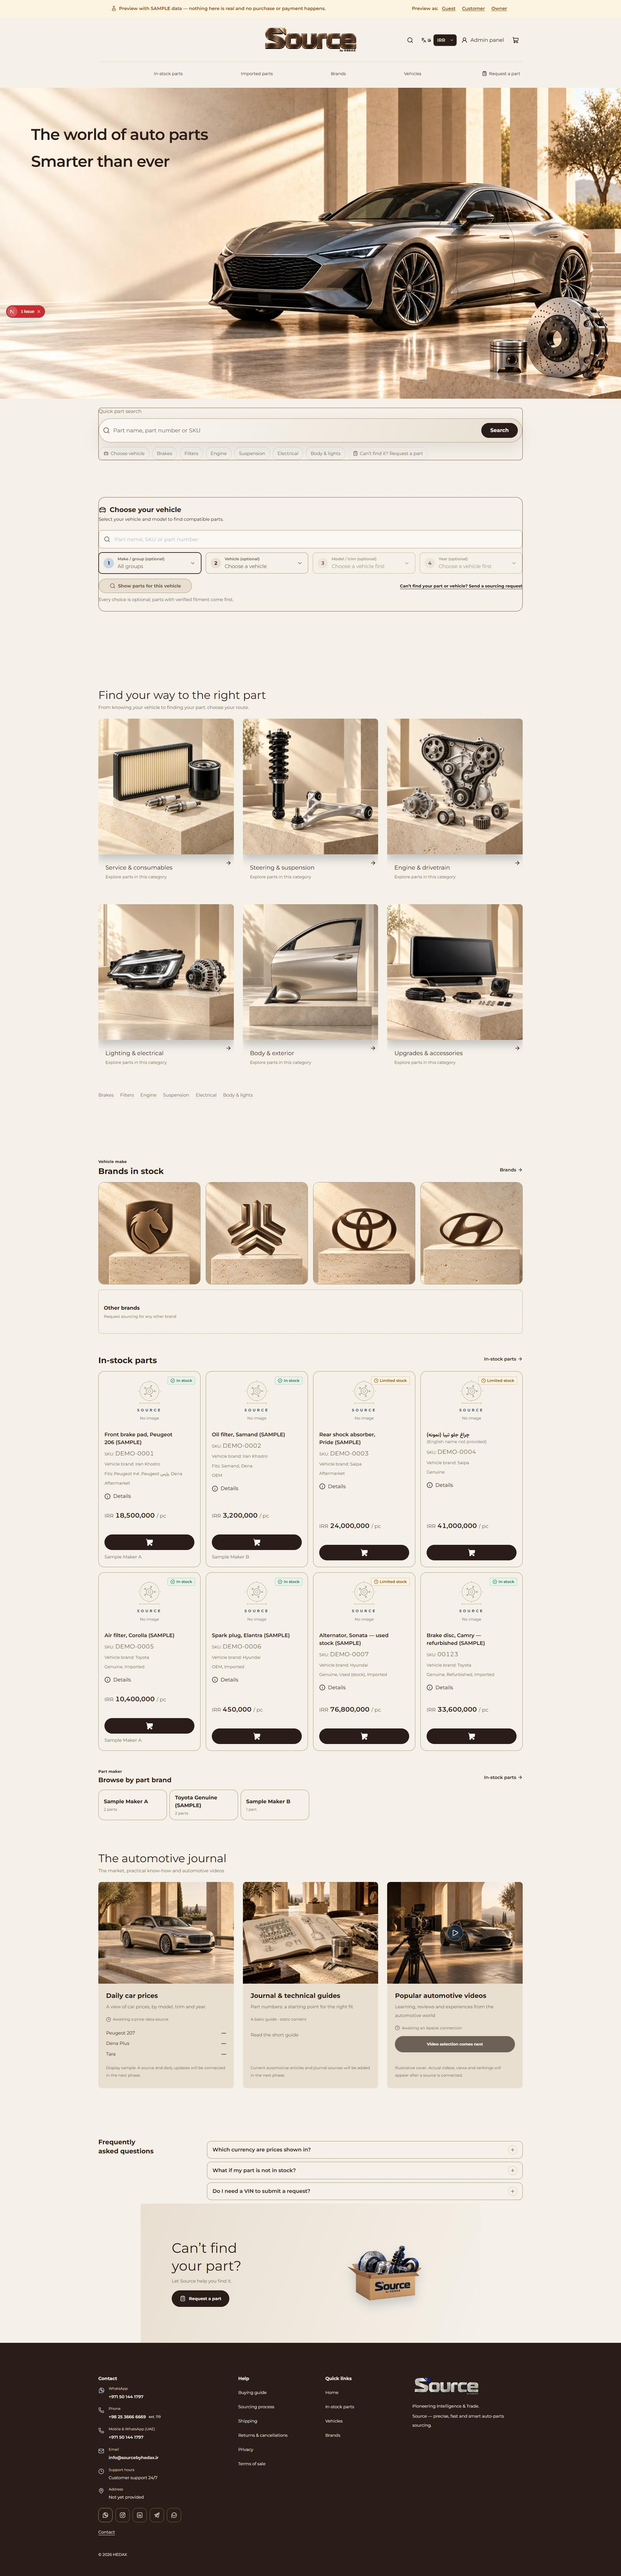
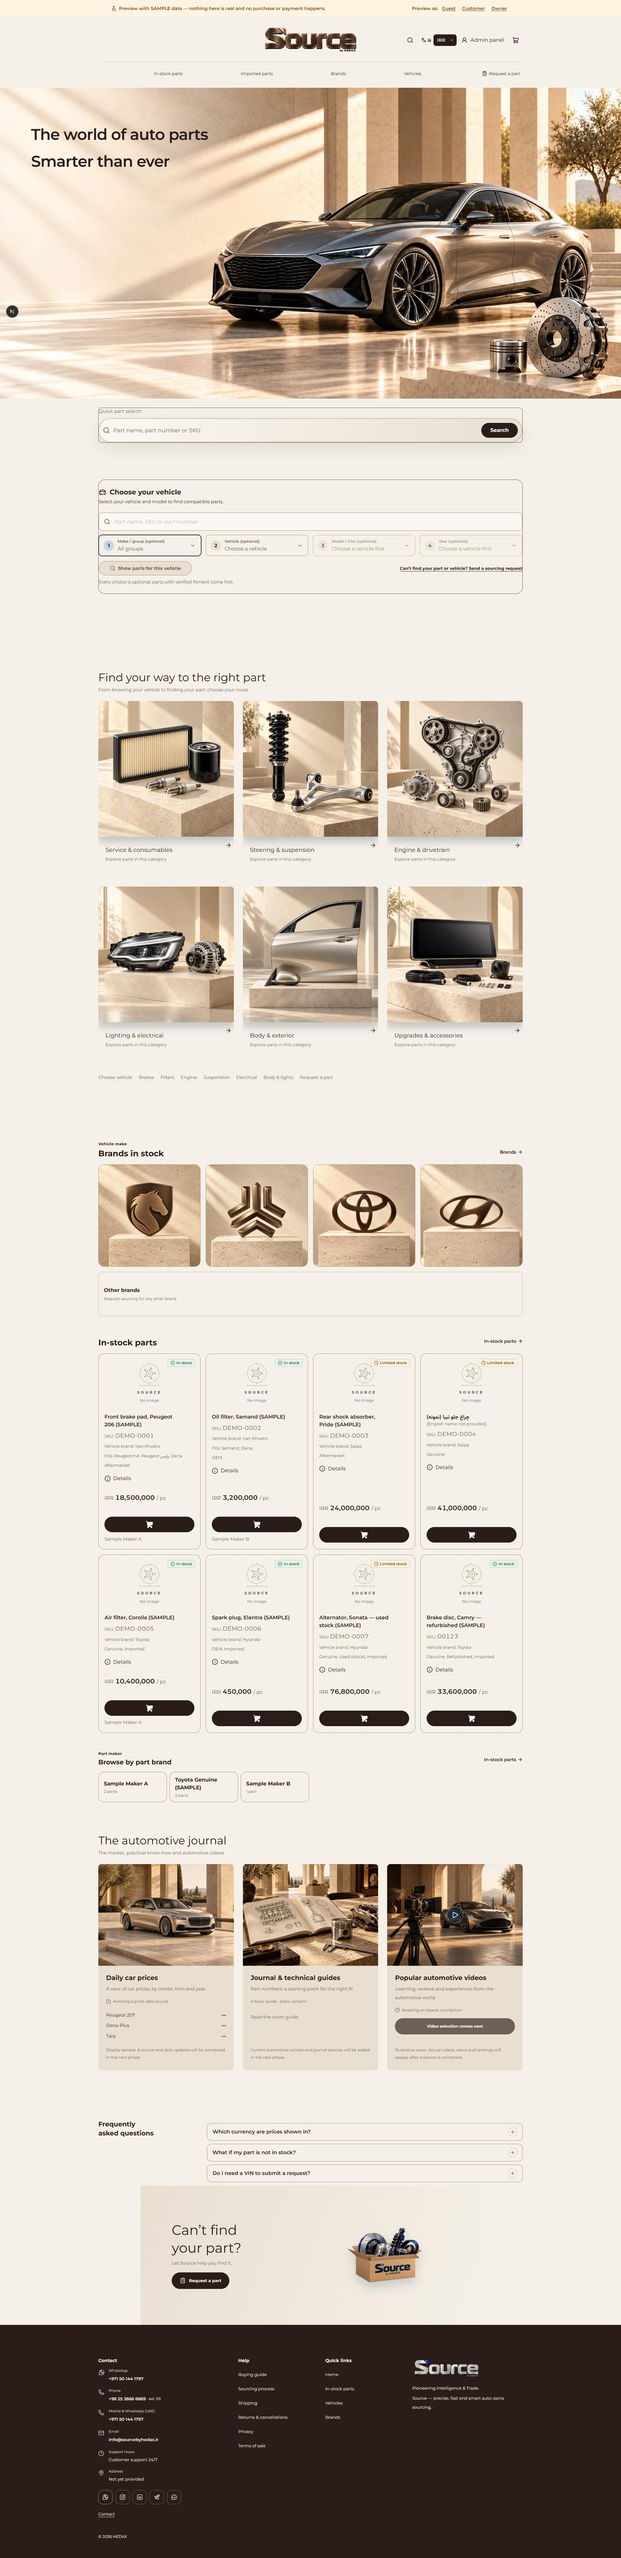
fix: reconcile atelier with current main and retain quick access

diff --git a/apps/web/src/components/store/titanium-home.tsx b/apps/web/src/components/store/titanium-home.tsx
@@ -71,7 +71,7 @@ export function TitaniumHome({ document, data, locale }: { document: BuilderDocu
         <span className="titanium-path-art"><Image src={p.image} alt={p.alt || p.title} fill sizes="(max-width: 800px) 46vw, 30vw" /></span>
         <div className="titanium-path-copy"><h3>{p.title}</h3><p>{p.text || (fa ? 'مشاهده قطعات این گروه' : 'Explore parts in this category')}</p><span className="titanium-path-arrow"><Arrow aria-hidden size={19} /></span></div>
       </Link>)}</div>
-      {categories.length ? <nav className="titanium-category-links" aria-label={fa ? 'دستهبندی قطعات' : 'Part categories'}>{categories.map(c => <Link href={`/parts?category=${encodeURIComponent(c.slug)}`} key={c.slug}>{(fa ? c.name.fa : c.name.en || c.name.fa)}</Link>)}</nav> : null}
+      {categories.length ? <nav className="titanium-category-links" aria-label={fa ? 'دستهبندی قطعات' : 'Part categories'}><a href="#vehicle-finder">{fa ? 'انتخاب خودرو' : 'Choose vehicle'}</a>{categories.map(c => <Link href={`/parts?category=${encodeURIComponent(c.slug)}`} key={c.slug}>{(fa ? c.name.fa : c.name.en || c.name.fa)}</Link>)}<Link href="/request-part">{fa ? 'درخواست تأمین قطعه' : 'Request a part'}</Link></nav> : null}
     </section>
 
     <div className="titanium-collections">

diff --git a/PROGRESS.md b/PROGRESS.md
@@ -12,6 +12,13 @@
 
 ## نقطهٔ فعلی
 
+### Completed & Tested محلی / انتظار CI نهایی — PR62 پس از تطبیق main — 2026-10-29 Asia/Tehran
+
+- PR: https://github.com/ali-hedax/source-auto-parts-platform/pull/62 ، باز و بدون merge/deploy. پایهٔ شروع edc508d؛ پس از رسیدن PR59/60/61، rebase روی5ffcf93 انجام شد. تعارض TitaniumHome با حفظ یک شعار روی عکس و API جدید QuickSearch حل شد؛ گزارش عملیات Production جدید main هم حفظ شد.
+- PR60 ترمیم شماره تلفن دستیار محفوظ است؛ هیچ API/migration تازهای در diff طراحی نیست. مطابق PR61 نوار جستجو فقط باکس دارد؛ میانبرهای خودرو/دسته/تأمین برای حفظ الزام مالک در مسیرهای خرید باقیاند.
+- CI قبل از rebase رویba10936 موفق بود؛ پس از rebase، lint و typecheck و272آزمون واحد وbuildوب exit0، دو E2Eطراحی و28responsive موفق شدند؛ تصاویر home/مقایسه تازه شدند. نتیجهٔ قبلی به head بازپایهگذاریشده نسبت داده نمیشود. فایلnext-env تولیدی stage نشود.
+- قدم بعدی: push نسخهٔ هماهنگشده باforce-with-lease فقط روی شاخهٔ همین PR، انتظار بررسی CI همانhead و ثبت نتیجه در شرح PR؛ هیچ merge/deploy انجام نشود.
+
 ### Completed & Tested محلی / CI شاخه — طراحی آتلیه، فقط PR — 2026-10-29 Asia/Tehran
 
 - شاخه `feat/redesign-atelier` از آخرین main بررسیشده `edc508d` (PR58)؛ تغییرهای محلی worktree قبلی حفظ شدند. هیچ merge/deploy/تغییر داده یا سرور مجاز یا اجرا نشده است.
@@ -20,7 +27,7 @@
 - همهٔ آزمونهای درخواستی محلی اجرا و موفق شدند. دادههای قیمت روز و آپارات همچنان placeholder صریحاند؛ هیچ اتصال تازهای ادعا نشده است. فونتها طبق درخواست Vazirmatn/Montserrat هستند.
 - قدم بعدی: ثبت نهایی گزارش، ساخت PR علیه main و انتظار CI همان head. ادغام و انتشار ممنوع است.
 - Completed & Tested: `pnpm typecheck` بعد از build بستههای مشترک/API موفق؛ `pnpm test:unit` موفق (API: 16 فایل/117 آزمون؛ domain/contracts نیز موفق). اجرای اول بهعلت نبود dist در checkout تازه شکست خورد و با اجرای ترتیب آمادهسازی CI حل شد. lint بدون خطا (دو هشدار قدیمی img در CinematicFilm). آزمون atelier مرورگر: 2/2 موفق، دو زبان و عرضهای390/768/1366/1920، بدون سرریز، heading داخل بنر، مسیر کارکنان/مشتری و GET جستجو بدون JS.
-- کد در چهار commit منطقی ثبت شد: `fde89c8` توکنها، `bf4d901` هدر/ورود، `1a89518` بخشهای قابل ویرایش/تصاویر/فیلم، `4fd99c9` پنل/هکسی. بههمراه ba10936 شواهد/آزمونها push شدند. CI شاخه run40701840578 روی ba10936 موفق شد (شامل integration و build Linux). ساخت نهایی وب محلی exit0؛ 271 آزمون واحد، 2 آزمون طراحی و مؤثر17/17 دستیار/کاتالوگ با تکرار دو شکست ثبتشده، 28 بررسی responsive موفق.
+- کد در چهار commit منطقی ثبت شد: commitهای توکنها، هدر/ورود، بخشهای قابل ویرایش/تصاویر/فیلم و پنل/هکسی (شناسههای قبلی پس ازrebase تغییر کردند). بههمراه ba10936 شواهد/آزمونها push شدند. CI شاخه run40701840578 روی ba10936 موفق شد (شامل integration و build Linux). ساخت نهایی وب محلی exit0؛ 271 آزمون واحد، 2 آزمون طراحی و مؤثر17/17 دستیار/کاتالوگ با تکرار دو شکست ثبتشده، 28 بررسی responsive موفق.
 
 - تصاویر نهایی و مقایسه در docs/review/atelier؛ Axe برای /fa، /en و /fa/admin بدون violation. فایل next-env تولیدی نباید وارد commit شود. اسناد gaps و rollout، تفاوت فیلم مستقل و حفظ تنظیمات قبلی را روشن میکنند.
 

diff --git a/docs/review/atelier/README.md b/docs/review/atelier/README.md
@@ -1,6 +1,6 @@
 # بازطراحی آتلیه — بررسی پیش از انتشار
 
-پایه: `main` در `edc508d`، شامل PR #58. شاخه: `feat/redesign-atelier`.
+پایهٔ شروع: `main` در `edc508d`، شامل PR #58؛ پس از ورود PR59/60/61، شاخه روی `5ffcf93` بازپایهگذاری شد. شاخه: `feat/redesign-atelier`.
 این تغییر برای بررسی در PR آماده میشود؛ ادغام، انتشار، تغییر سرور یا داده انجام نمیشود.
 
 ## نقشهٔ پیشنمایش به پیادهسازی
@@ -11,7 +11,7 @@
 | هدر متناسب، لوگوی گرم | `layout/site-header-view.tsx` و `home-header-view.tsx`، با حفظ تنظیمات لوگو و منو |
 | ورود مشتری و کارکنان | `layout/header-client.tsx`، مسیرهای واقعی `/login` و `/staff/login` و مقصد نشست فعلی |
 | بنر تصویری، شعار روی تصویر با ورود تدریجی | `store/titanium-home.tsx` و `repeating-slogan.tsx`؛ تصویر، alt و متن از Builder |
-| جستجوی سریع بیضی | همان `store/quick-search.tsx` از PR58، با پیشنهاد زنده، چیپها و GET بدون JS |
+| جستجوی سریع بیضی | همان `store/quick-search.tsx` از main جدید، با پیشنهاد زنده و GET بدون JS؛ میانبرهای خودرو، دستهها و تأمین در ناوبری مسیرهای خرید حفظ شدهاند |
 | انتخاب خودرو | همان `catalog/vehicle-finder-steps.tsx`؛ داده و منطق تطبیق تغییر نکردهاند |
 | شش مسیر خرید و سه کاور محتوایی | `titanium-home.tsx` و `automotive-hub.tsx`؛ تصاویر WebP و overrideهای فعلی Builder |
 | نشانهای برند روی سنگ | `brand-card.tsx` و `legacy-home.tsx`؛ artwork خانه از تنظیمات مجزا، لوگوی رسمی کاتالوگ محفوظ |
@@ -39,3 +39,5 @@
 تغییر کاربردیِ این PR در وب و مقدار پیشفرض جای هکسی در قرارداد مشترک است؛ API/DB/migration تازهای اضافه نشده است. پیشنیاز انتشار با توجه به پایهٔ PR58: وضعیت rollout و migration اپراتورِ همان PR باید در زمان انتشار بررسی شود؛ این PR آن مرحله را اجرا یا تکرار نمیکند. برای این طراحی migration جدیدی لازم نیست. نسخهٔ قبلی وب و نسخهٔ منتشرشدهٔ Builder برای rollback حفظ شوند.
 
 نتیجهٔ آزمونها و تصاویر نهایی پس از اجرا در همین پوشه ثبت میشود.
+
+پس از PR61، نوار جستجو فقط همان باکس سرتاسری را دارد. برای حفظ الزام این کار مبنی بر حذفنشدن میانبرها، لینکهای سریع خودرو/دسته/تأمین در بخش مسیرهای خرید نگه داشته شدند. اصلاح ماسک تلفن PR60 از main حفظ شد؛ کد سرور آن جزو diff این PR نیست.

diff --git a/docs/review/atelier/verification.md b/docs/review/atelier/verification.md
@@ -1,12 +1,12 @@
-# شواهد بررسی محلی — 2026-10-28، Asia/Tehran
+# شواهد بررسی محلی — 2026-10-29، Asia/Tehran
 
-محیط: checkout جداگانه از `edc508d`، `HEDAX_DATA_SOURCE=fixtures` روی localhost:3320؛ بدون فایل env مخزن، پایگاه داده، پرداخت، ارسال پیام واقعی یا تماس با مدل زنده.
+محیط: checkout جداگانه از `edc508d` و بازپایهگذاری نهایی روی `5ffcf93`، `HEDAX_DATA_SOURCE=fixtures` روی localhost:3320؛ بدون فایل env مخزن، پایگاه داده، پرداخت، ارسال پیام واقعی یا تماس با مدل زنده.
 
 | بررسی | نتیجه |
 | --- | --- |
 | `pnpm lint` | موفق؛ دو هشدار از imgهای موجود CinematicFilm، صفر خطا |
 | `pnpm typecheck` | موفق در تمام workspace؛ 1202 کلید دوزبانه همسان |
-| `pnpm test:unit` | موفق؛ domain:132، contracts:22، API:117، در مجموع271 آزمون |
+| `pnpm test:unit` | موفق؛ domain:132، contracts:22، API:118، در مجموع272 آزمون |
 | `pnpm --filter @hedax/web build` | موفق؛ ساخت Production کامل شد (exit 0) |
 | Playwright طراحی | 2/2 موفق؛ FA/EN، چهار عرض، قرارگیری عنوان داخل تصویر و جستجوی GET بدون JS |
 | Playwright دستیار و کاتالوگ | 15/17 در اجرای اول؛ دو مورد در تکرار هدفمند 2/2 موفق شدند |
@@ -14,6 +14,8 @@
 | Axe WCAG A/AA | خانهٔ FA، خانهٔ EN و داشبورد: صفر violation؛ گزارش `accessibility.json` |
 
 آزمون اول type/unit در checkout تازه به distهای ساختهنشده وابسته بود؛ ترتیب آمادهسازی workflow شامل ساخت domain/contracts/API و تولید Prisma اجرا شد و تکرار کامل موفق شد. یک آزمون حذف مرجع هنگام HMR از صفحه جدا شد؛ بدون تغییر همزمان در تکرار موفق شد. یک انتظار دستیار هنوز label قبل از PR58 را میخواست؛ به «Talk to an operator» و فرم واقعی اپراتور بهروز شد. آزمون حذف یا assertion محافظتی سست نشده است.
+
+پس ازrebase رویmain جدید، lint/typecheck/unit/build و دو E2E طراحی و28بررسی responsive دوباره موفق شدند. اصلاح شمارههای تلفنPR60 حفظ و نوار جستجوی سادهٔPR61 نگه داشته شد؛ میانبرها به بخش مسیرهای خرید منتقل شدند. بررسی hydration نیز بدون خطا بود.
 
 ## نتیجهٔ GitHub
 
